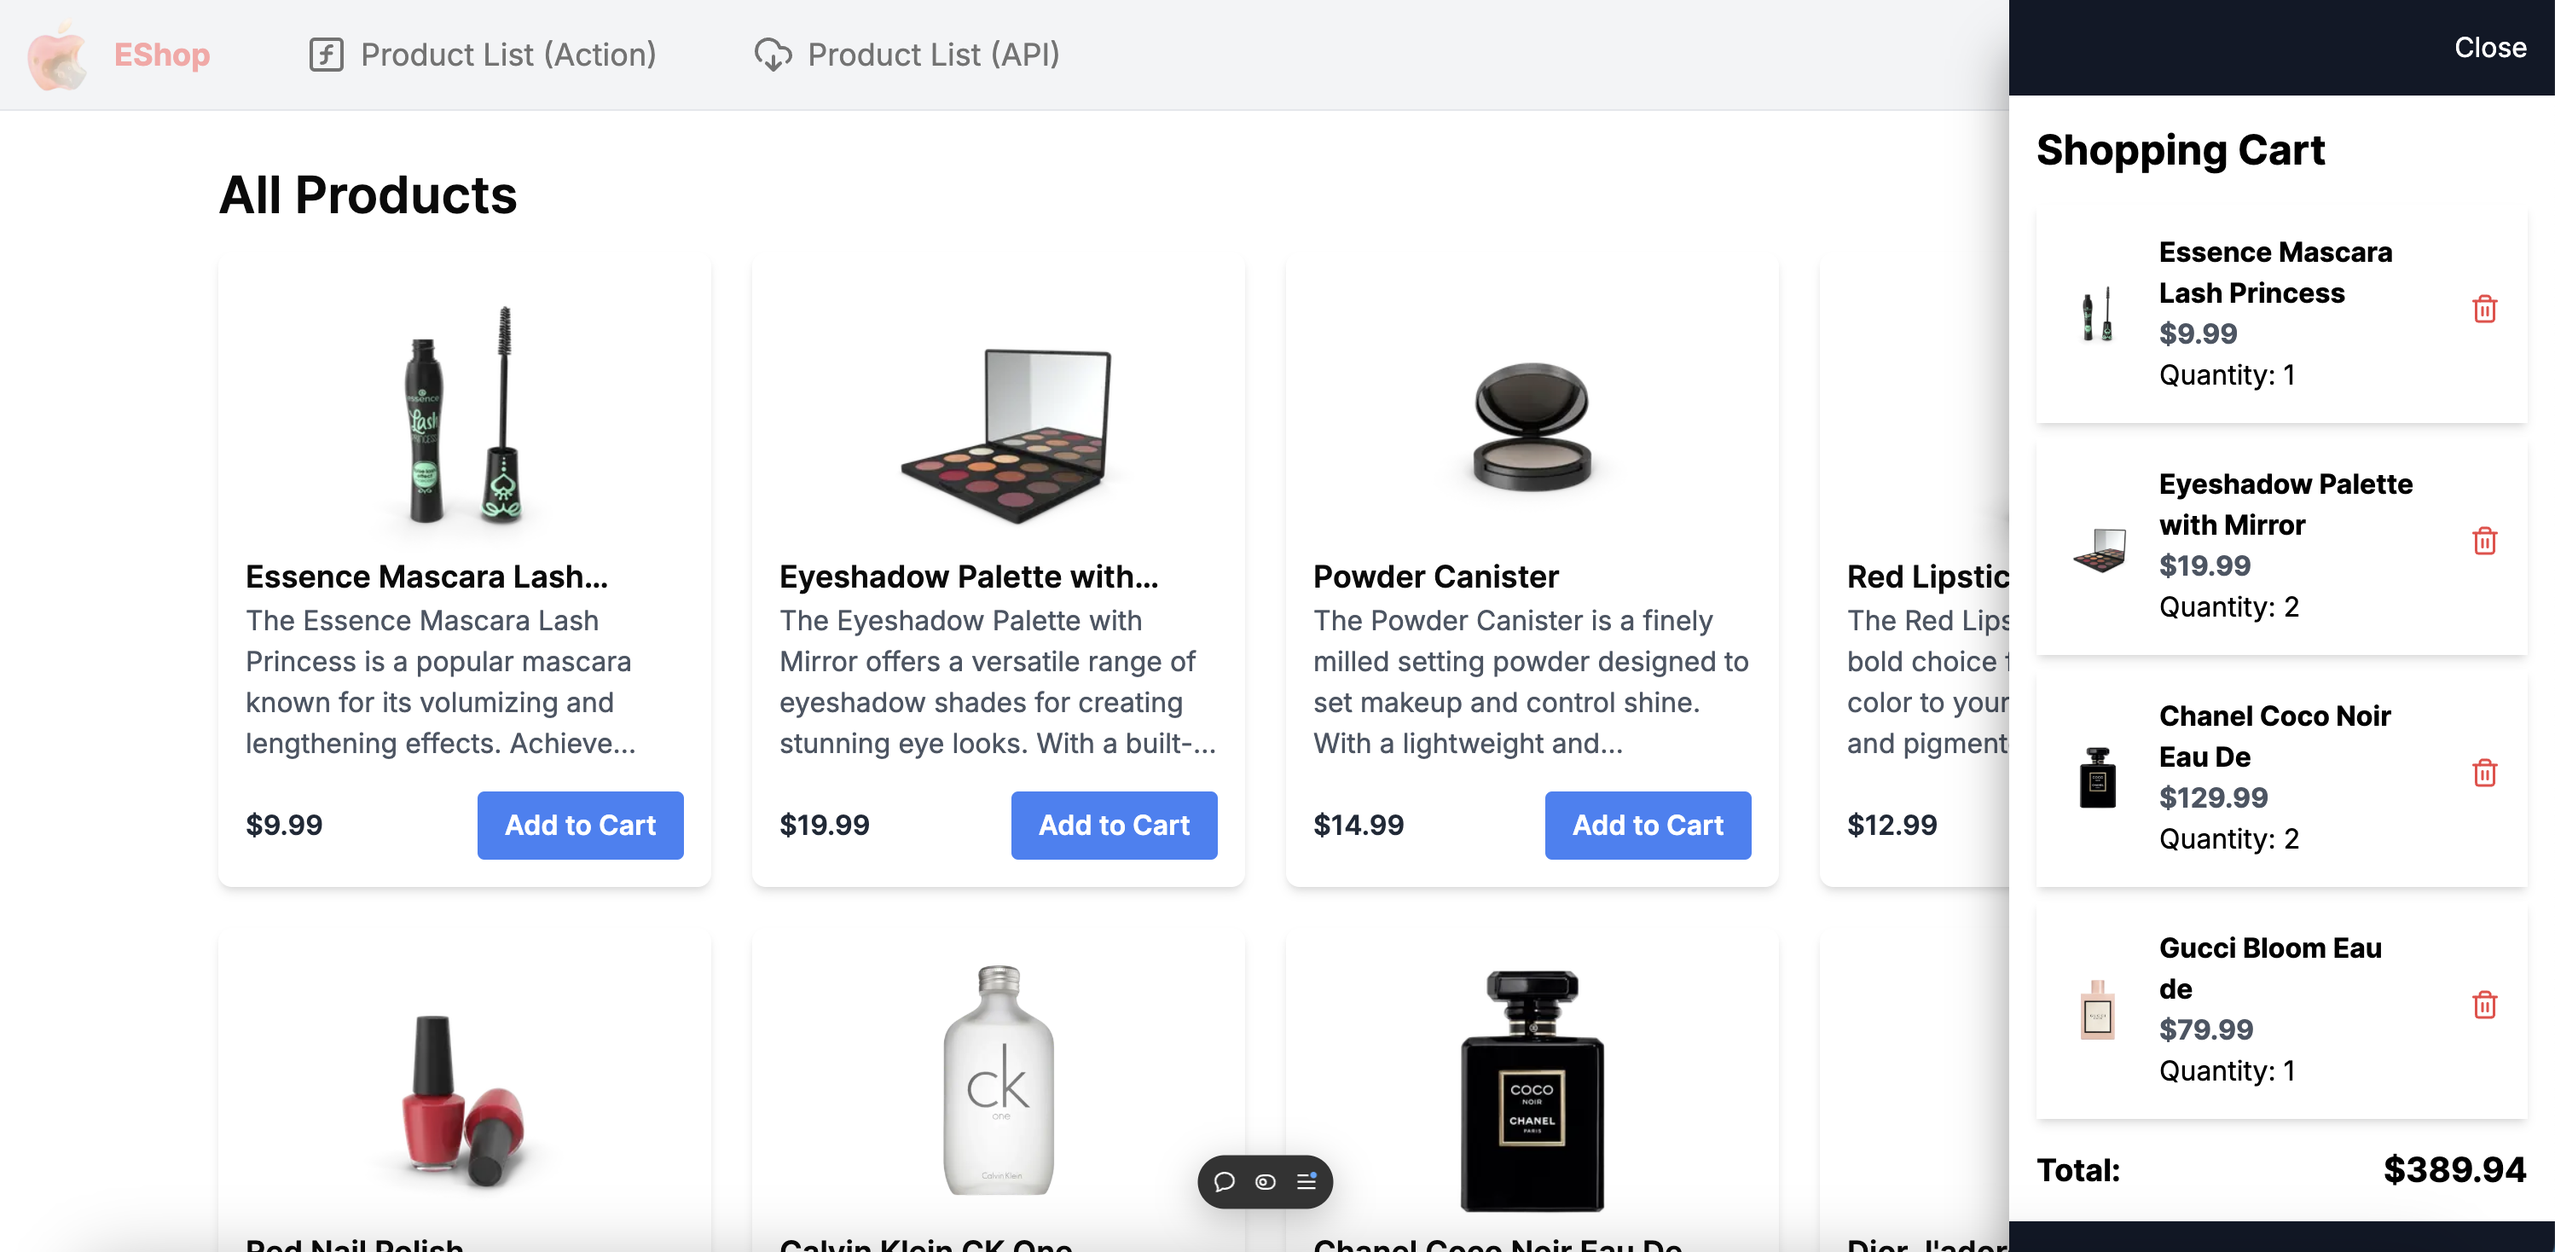
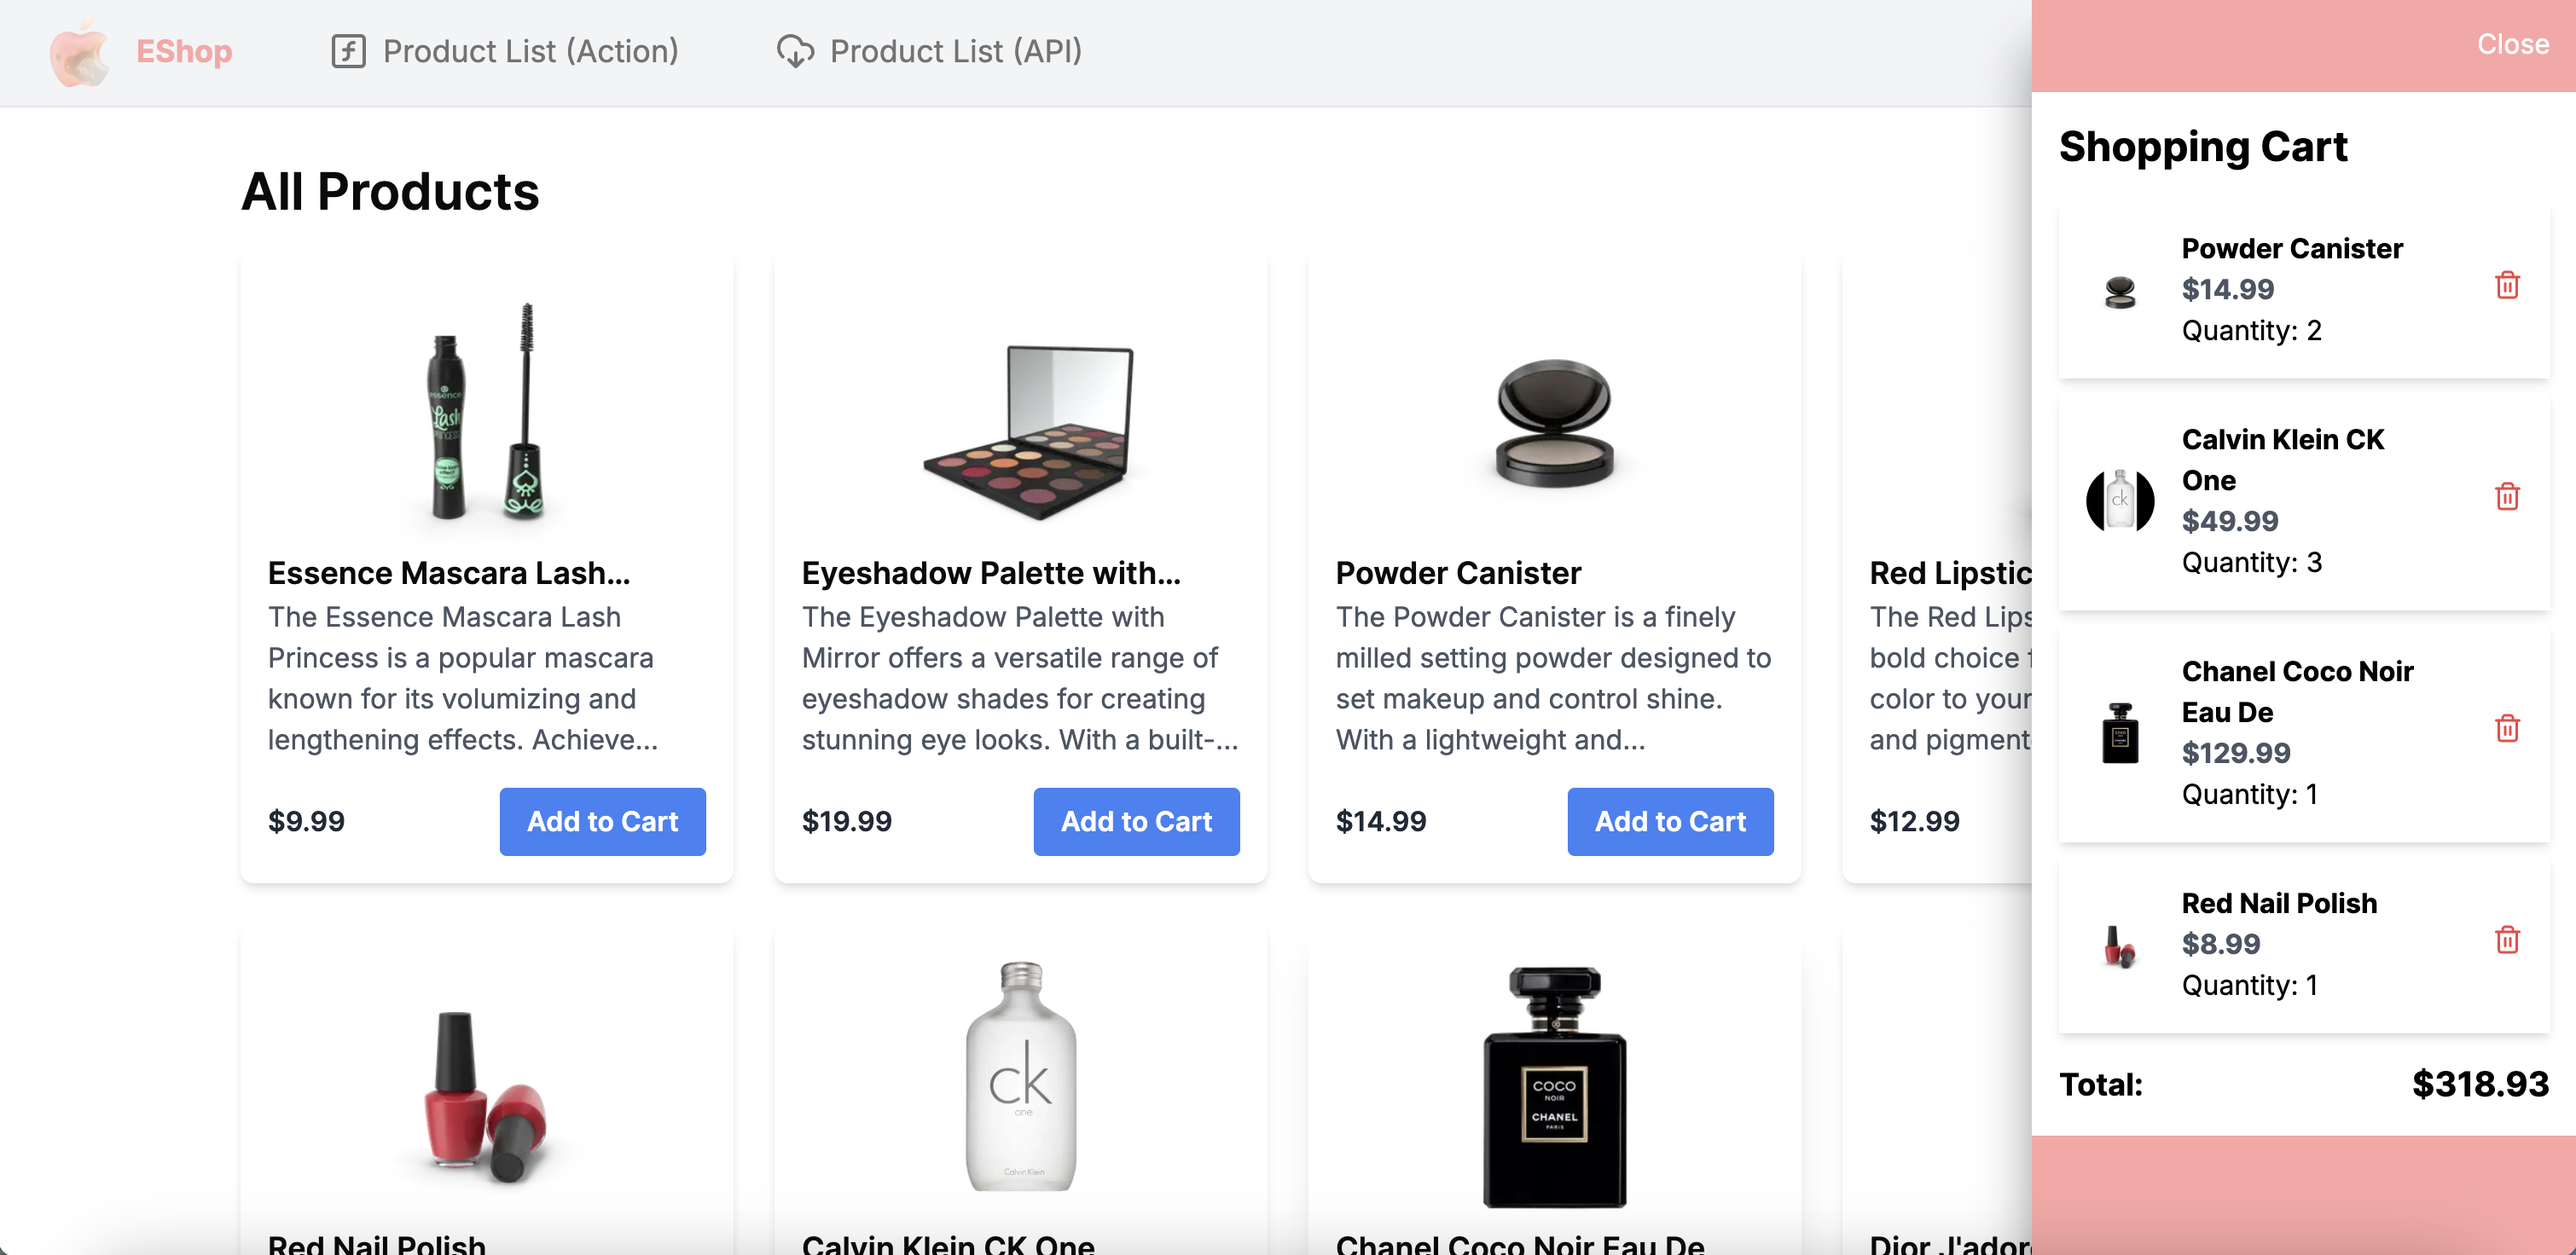
-Update button color. -Update README.

diff --git a/app/components/Drawer.tsx b/app/components/Drawer.tsx
@@ -8,13 +8,13 @@ const Drawer = ({ children, isOpen, onCartIconClick }: Props) => {
 	return (
 		<div className='relative'>
 			<div
-				className={`fixed top-0 right-0 h-full w-80 bg-gray-900 text-white transition duration-700 ease-in-out transform z-50 ${
+				className={`fixed top-0 right-0 h-full w-80 bg-red-300 text-white transition duration-700 ease-in-out transform z-50 ${
 					isOpen ? "translate-x-0" : "translate-x-full"
 				}`}
 				style={{ boxShadow: `${isOpen ? "rgba(0, 0, 0, 0.4) 0px 30px 30px" : ""}` }}
 			>
 				<aside className='h-full overflow-y-auto'>
-					<header className='bg-gray-900 text-white py-4 flex items-center justify-end px-4 h-14'>
+					<header className='bg-red-300 text-white py-4 flex items-center justify-end px-4 h-14'>
 						<div>
 							<button onClick={onCartIconClick}>Close</button>
 						</div>

diff --git a/app/productsAction/page.tsx b/app/productsAction/page.tsx
@@ -50,7 +50,7 @@ const Products = () => {
             <h1 className="text-[#333] mt-8 text-center text-4xl font-bold pt-12">Product List using Server Action</h1>
             <div className="flex items-center justify-center pt-4">
                 <Link href="/productsAction/create">
-                    <Button>Create Product</Button>
+                    <Button className="bg-red-300 hover:bg-red-400">Create Product</Button>
                 </Link>
             </div>
             <div className='text-[#333] gap-4 flex mt-7 items-center justify-center'>

diff --git a/app/productsAPI/page.tsx b/app/productsAPI/page.tsx
@@ -38,7 +38,7 @@ const Products = () => {
             <h1 className="text-[#333] mt-8 text-center text-4xl font-bold pt-12">Product List using API</h1>
             <div className="flex items-center justify-center pt-4">
                 <Link href="/productsAPI/create">
-                    <Button>Create Product</Button>
+                    <Button className="bg-red-300 hover:bg-red-400">Create Product</Button>
                 </Link>
             </div>
             <div className='text-[#333] gap-4 flex mt-7 items-center justify-center'>

diff --git a/app/components/products/ProductCard.tsx b/app/components/products/ProductCard.tsx
@@ -27,7 +27,7 @@ export default function ProductCard({ product }: Props) {
 					<span className='text-gray-800 font-semibold'>${product.price.toFixed(2)}</span>
 					<button
 						type='button'
-						className='ml-2 bg-blue-500 text-white font-semibold py-2 px-4 rounded hover:bg-blue-600'
+						className='ml-2 bg-red-300 text-white font-semibold py-2 px-4 rounded hover:bg-red-400'
 						onClick={() => addToCart(product)}
 					>
 						Add to Cart

diff --git a/components/ui/form/signin-form.tsx b/components/ui/form/signin-form.tsx
@@ -88,7 +88,7 @@ const SignInForm = () => {
                 </Button>
                 : <Button className="w-full mt-6 bg-red-400 hover:bg-red-300" type="submit" disabled={isSubmitting}
                 >
-                    Sign In
+                    Sign in with email
                 </Button>
             }
         </form>
